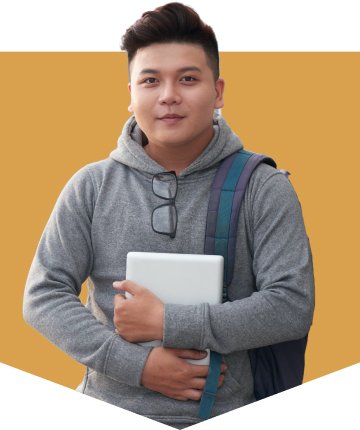
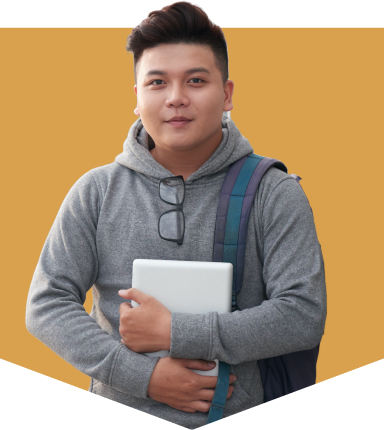
study webp

diff --git a/components/Study.vue b/components/Study.vue
@@ -24,13 +24,22 @@
         </button>
       </div>
       <div class="col-12 col-sm-6 col-lg-7 d-flex justify-end mb-16 mb-sm-0">
-        <img
-          class="image mx-auto mx-sm-0 ml-sm-auto"
-          src="~/assets/img/study.jpg"
-          width="360"
-          height="430"
-          alt=""
-        />
+        <picture class="image mx-auto mx-sm-0 ml-sm-auto">
+          <source
+            class="image mx-auto mx-sm-0 ml-sm-auto"
+            srcset="~/assets/img/study.webp"
+            type="image/webp"
+            width="360px"
+            height="430px"
+          />
+          <img
+            class="image mx-auto mx-sm-0 ml-sm-auto"
+            loading="lazy"
+            :src="$path('~/assets/img/study.jpg')"
+            width="360px"
+            height="430px"
+          />
+        </picture>
       </div>
     </div>
   </v-container>

diff --git a/components/Hero.vue b/components/Hero.vue
@@ -1,6 +1,5 @@
 <template>
   <div class="hero d-flex align-center">
-    <!-- <img class="" src="" width="" height="" alt="" /> -->
     <picture>
       <source
         class="hero-img"
